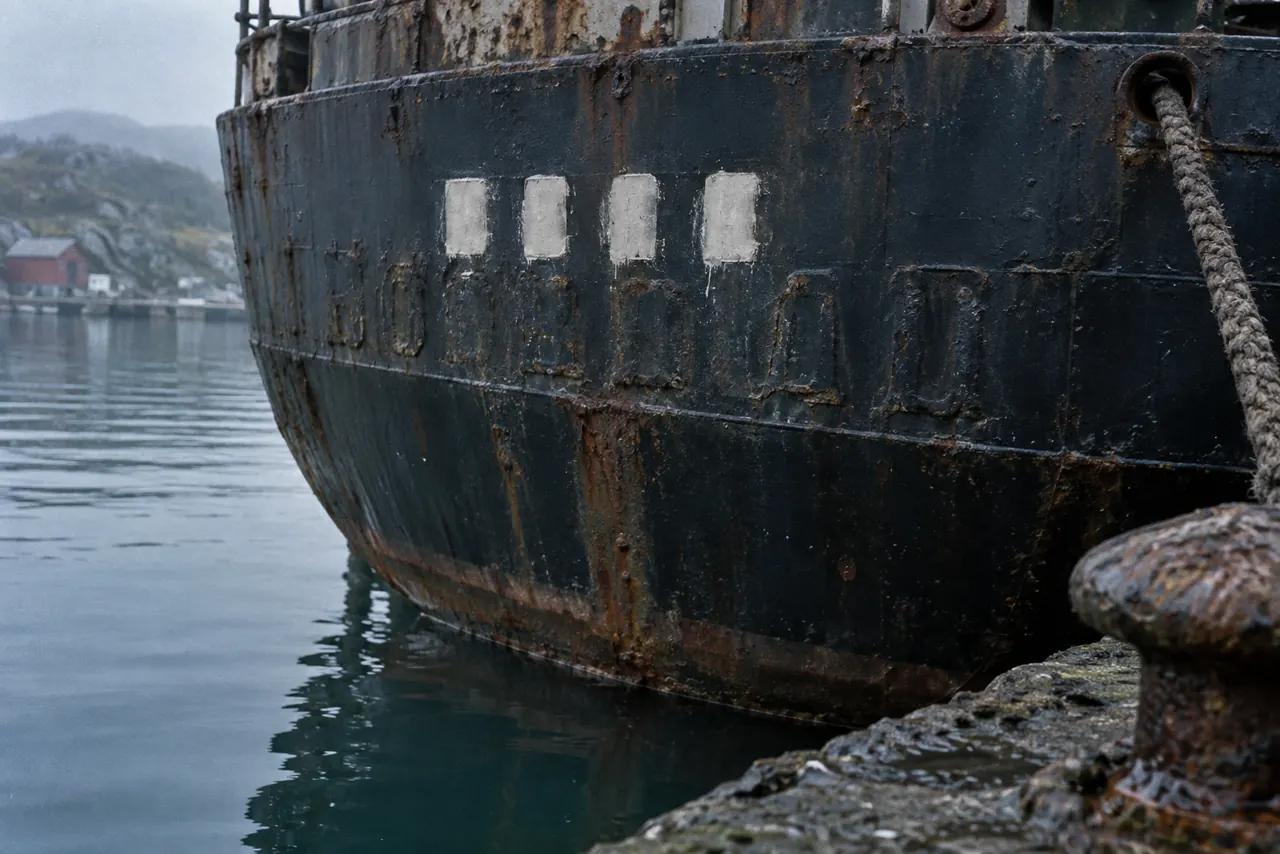
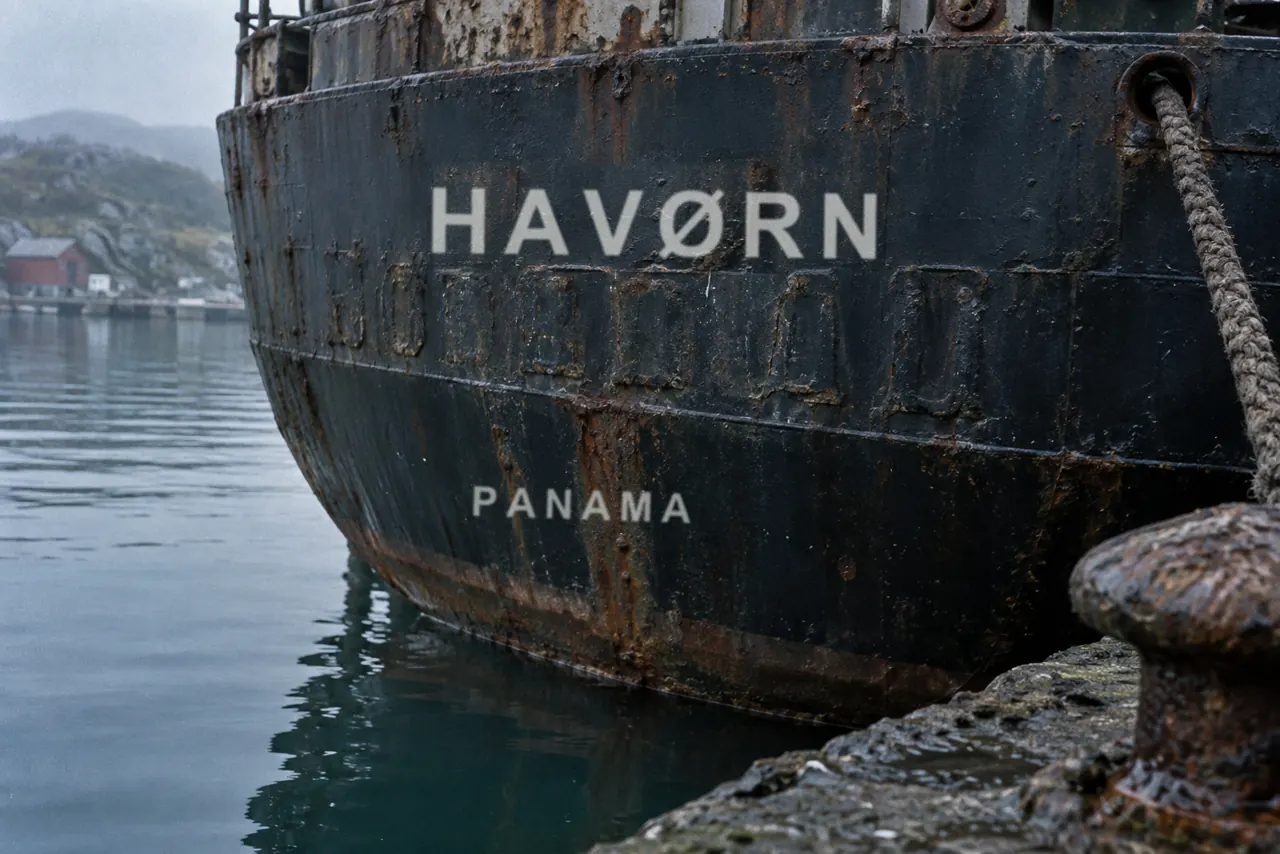
CASE 06's film frame 7 now shows the ship's new name, HAVØRN, freshly painted in white on the stern with PANAMA beneath, where the photo had four blank white patches; the older raised letters the caption points to still show below

Changed region(s): [[0.3125, 0.1827, 0.6875, 0.3349], [0.3438, 0.548, 0.5625, 0.6089]]

diff --git a/cases/c06-norway-1970.js b/cases/c06-norway-1970.js
@@ -614,7 +614,7 @@
       stern: { use: '현상한 필름 7번 — 새 페인트 밑 옛 글자 자국이 보이는 고물', ratio: '4:3',
         svg: '<svg viewBox="0 0 200 150"><rect width="200" height="150" fill="#56605f"/><path d="M20 20h160v90q-80 20-160 0z" fill="#2f3538"/><rect x="46" y="44" width="108" height="8" fill="#3c4346"/><rect x="50" y="62" width="100" height="10" fill="#e8e6de"/><rect x="70" y="80" width="60" height="6" fill="#e8e6de"/><rect y="118" width="200" height="32" fill="#44525a"/></svg>',
         prompt: 'Close-up 35mm photograph of the stern of a rusty small cargo ship at a quay: freshly painted name letters on the dark hull, and beneath the new paint the faint raised outlines of older, different letters showing in low raking morning light. The two rows must be clearly visible as shapes: a short row of fresh white painted letters, and around and beneath it a longer row of older letter outlines standing out as raised ridges and paint edges in the raking light. Letter shapes only, blurred so no word can be read. Water reflections, cool muted colours.',
-        must: '새로 칠한 글자 한 줄 + 그 밑으로 도드라진 옛 글자 윤곽 (읽히지는 않게)' },
+        must: '새로 칠한 흰 글자 HAVØRN 과 아래 PANAMA (사진에 따로 그려 넣음) + 그 밑으로 도드라진 옛 글자 윤곽 (읽히지는 않게)' },
       station: { use: '신문 10월 23일자 — 역 수하물 보관소 창구', ratio: '4:3',
         svg: '<svg viewBox="0 0 200 150"><rect width="200" height="150" fill="#8f877a"/><rect x="30" y="30" width="140" height="70" fill="#5b5145"/><rect x="40" y="40" width="120" height="44" fill="#2c2620"/><g fill="#6b5a44"><rect x="46" y="46" width="30" height="16"/><rect x="84" y="46" width="30" height="16"/><rect x="122" y="46" width="30" height="16"/><rect x="46" y="64" width="30" height="16"/><rect x="84" y="64" width="30" height="16"/></g><rect x="20" y="100" width="160" height="12" fill="#a39480"/><rect y="112" width="200" height="38" fill="#6e665a"/></svg>',
         prompt: 'Interior of a small Norwegian railway station left-luggage office in 1969: a wooden counter with a hinged hatch, shelves behind it holding suitcases and parcels with paper tags, a round wall clock, empty benches. Newspaper halftone photograph, no people.' },

diff --git a/img/manifest.js b/img/manifest.js
@@ -110,7 +110,7 @@ window.MG.images = {
   "c06/scene_hollow": "img/c06/scene_hollow.webp?v=f22ab815",
   "c06/ship": "img/c06/ship.webp?v=a000a31a",
   "c06/station": "img/c06/station.webp?v=30135a93",
-  "c06/stern": "img/c06/stern.webp?v=122fc21e",
+  "c06/stern": "img/c06/stern.webp?v=bbebb08a",
   "c06/suitcases": "img/c06/suitcases.webp?v=8a8a9410",
   "c06/thermos": "img/c06/thermos.webp?v=da038f9c",
   "c06/touristmap": "img/c06/touristmap.webp?v=7f42f891",
